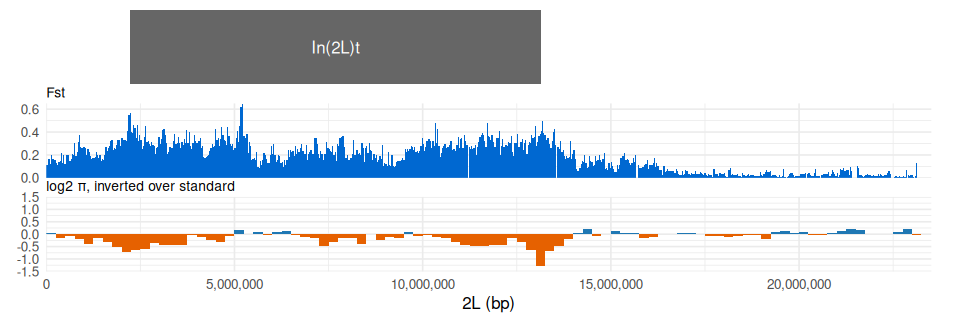
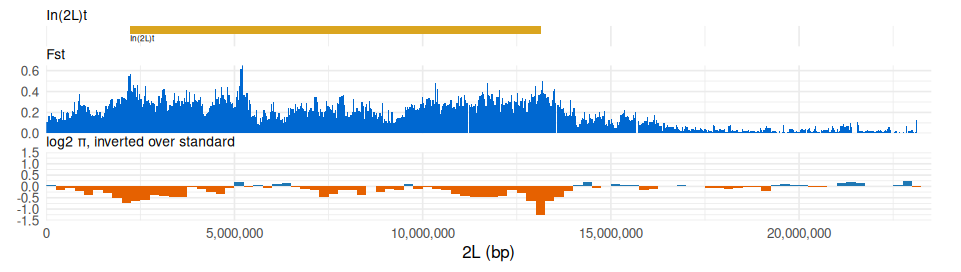
Tutorials read FILTER, INFO and inline features through the engine
Dog10K checks R's genotype counts against the record's own AC and AN, and
shows it passing every filter, where it had copied both from bcftools output.
The selection-scan stack draws the website's inline In(2L)t track through its
FromConfigAdapter config.

diff --git a/docs/tutorials/dog10k_lof.md b/docs/tutorials/dog10k_lof.md
@@ -111,20 +111,21 @@ cat(sprintf("%s CDS %d bp, %d codons\ncodon 373 = %s (%s) at chr30:%d\n",
 ```
 
 The C>T at chr30:38,261,635 truncates the protein at residue 373 of 513.
-Reading the callset at exactly that position finds it:
+Reading the callset at exactly that position finds it, passing every
+filter.
 
 `jbrowse_variants()` takes the 397 GB callset's URL and fetches the records
-under one locus by range request, so a single base costs a few seconds. The
-table has a row for every canid in the callset and a cell for each non-reference
-call:
+under one locus by range request, so a single base costs a few seconds. Each
+record carries its `filter` and INFO fields as columns, and the table has a row
+for every canid in the callset and a cell for each non-reference call:
 
 
 ``` r
 callset <- "https://kiddlabshare.med.umich.edu/dog10K/SNP_and_indel_calls_2021-10-17/AutoAndXPAR.SNPs.vqsr99.vcf.gz"
 everyone <- jbrowse_variants(callset, sprintf("chr30:%d-%d", stop_site, stop_site))
-everyone$variants |> select(start, ref, alt, type)
-#>      start ref alt type
-#> 1 38261634   C   T  SNV
+everyone$variants |> select(start, ref, alt, filter, AC, AN)
+#>      start ref alt filter  AC   AN
+#> 1 38261634   C   T   PASS 174 3974
 everyone
 #> <jbrowse_variants> chr30:38,261,635-38,261,635, 1 records, 1987 rows, 158 cells
 ```
@@ -450,8 +451,8 @@ cohort |>
 
 ## The check
 
-Two numbers test the figures' reading. The first is the callset's own record at
-the stop site, from `bcftools query` over the same URL:
+Two numbers test the figures' reading. The first is the callset's own count of
+alleles at the stop site, which `bcftools query` prints from the same URL:
 
 ```bash
 SNVS=https://kiddlabshare.med.umich.edu/dog10K/SNP_and_indel_calls_2021-10-17/AutoAndXPAR.SNPs.vqsr99.vcf.gz
@@ -460,15 +461,16 @@ bcftools query -r chr30:38261635 -f '%CHROM\t%POS\t%REF\t%ALT\t%FILTER\t%AC\t%AN
 # chr30  38261635  C  T  PASS  174  3974
 ```
 
-`AC` counts the alt alleles and `AN` the alleles called. The genotypes R read
-and counted per animal have to add up to both:
+`AC` counts the alt alleles and `AN` the alleles called. R read the same record's
+INFO above, and the genotypes it counted per animal have to add up to both:
 
 
 ``` r
 called <- 2 * nrow(everyone$rows) -
   2 * sum(grepl(".", everyone$cells$genotype, fixed = TRUE))
-record <- c(AC = 174, AN = 3974)
-rbind(record, genotypes = c(AC = sum(alleles$alt), AN = called))
+record <- filter(everyone$variants, start == stop_site - 1)
+rbind(record = c(AC = unlist(record$AC), AN = record$AN),
+  genotypes = c(AC = sum(alleles$alt), AN = called))
 #>            AC   AN
 #> record    174 3974
 #> genotypes 174 3974

diff --git a/docs/tutorials/population_genomics.md b/docs/tutorials/population_genomics.md
@@ -207,6 +207,18 @@ vcf_displays <- list(
     rowColor = "karyotype"
   )
 )
+inversion_adapter <- list(
+  type = "FromConfigAdapter",
+  features = list(
+    list(
+      uniqueId = "in2lt",
+      refName = "chr2L",
+      start = 2225744,
+      end = 13154180,
+      name = "In(2L)t"
+    )
+  )
+)
 ```
 
 `jbrowse_wiggle()` reads a bigWig at the zoom its `width` picks. A width of one
@@ -453,18 +465,15 @@ a `domain` to a `range` of colors. Here a `threshold` scale colors each bin by
 its side of zero, and `scales.y` pins the y scale to ±1.5.
 
 The website's `displayDefaults` for that track are already in `ratio_display`.
-We'll stack the inversion's extent, read from the VCF record, over the Fst scan
-and the hosted ratio on 2L, one region for the three:
+The website's In(2L)t track writes the published extent as one feature inline
+in its config, and `jbrowse_features()` reads that adapter as it stands. We'll
+stack it over the Fst scan and the hosted ratio on 2L:
 
 
 ``` r
-extent <- ggplot(inversion$variants) +
-  geom_rect(aes(xmin = start, xmax = end, ymin = 0, ymax = 1),
-    fill = "grey40") +
-  annotate("text", x = mean(unlist(span)), y = 0.5, label = "In(2L)t",
-    colour = "white") +
-  theme_void()
-fig <- jbrowse_stack(extent,
+extent <- jbrowse_features(inversion_adapter, "chr2L", 0, arms$length[1],
+  width = 1200)
+fig <- jbrowse_stack(`In(2L)t` = extent,
   Fst = jbrowse_wiggle(fst_bw, "2L", 0, arms$length[1],
     display = list(extent = "none"), width = 1200),
   `log2 π, inverted over standard` = jbrowse_wiggle(ratio_bw, "2L", 0,
@@ -476,7 +485,7 @@ fig <- jbrowse_stack(extent,
 fig
 ```
 
-![The In(2L)t extent from the VCF, Fst between inverted and standard lines, and log2 of π in the inverted lines over π in the standard ones in 250 kb bins, across 2L: Fst is high and the ratio mostly orange, inverted lower, between the breakpoints, and both settle past the right breakpoint](figures/population_genomics-in2lt-1.png)
+![The published In(2L)t extent, Fst between inverted and standard lines, and log2 of π in the inverted lines over π in the standard ones in 250 kb bins, across 2L: Fst is high and the ratio mostly orange, inverted lower, between the breakpoints, and both settle past the right breakpoint](figures/population_genomics-in2lt-1.png)
 
 The inverted lines have less diversity than the standard ones across the
 inverted region, most near the breakpoints, where the suppressed recombination
